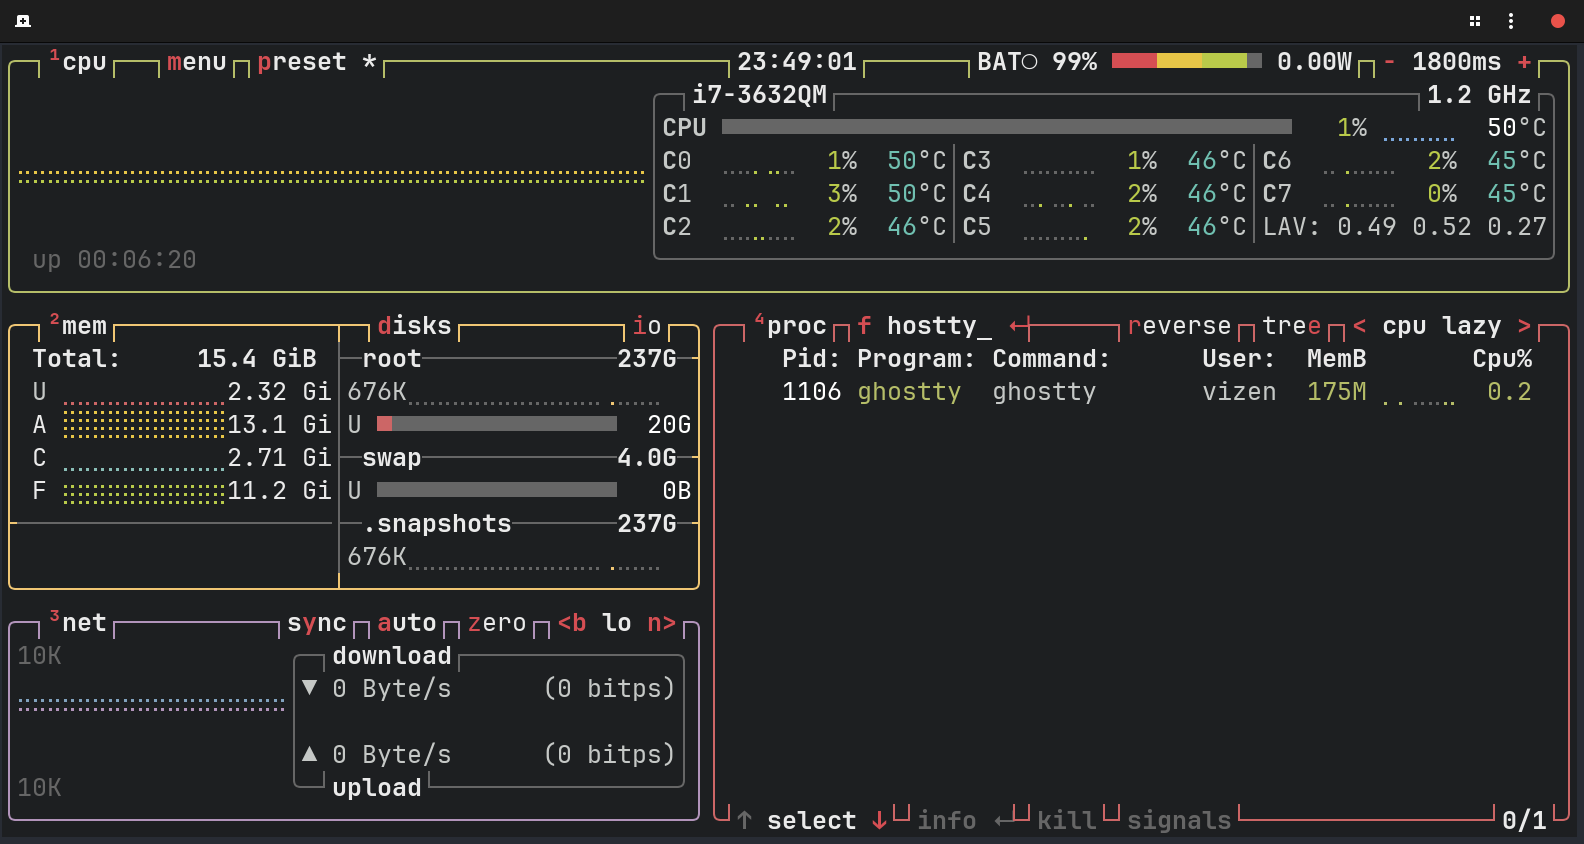
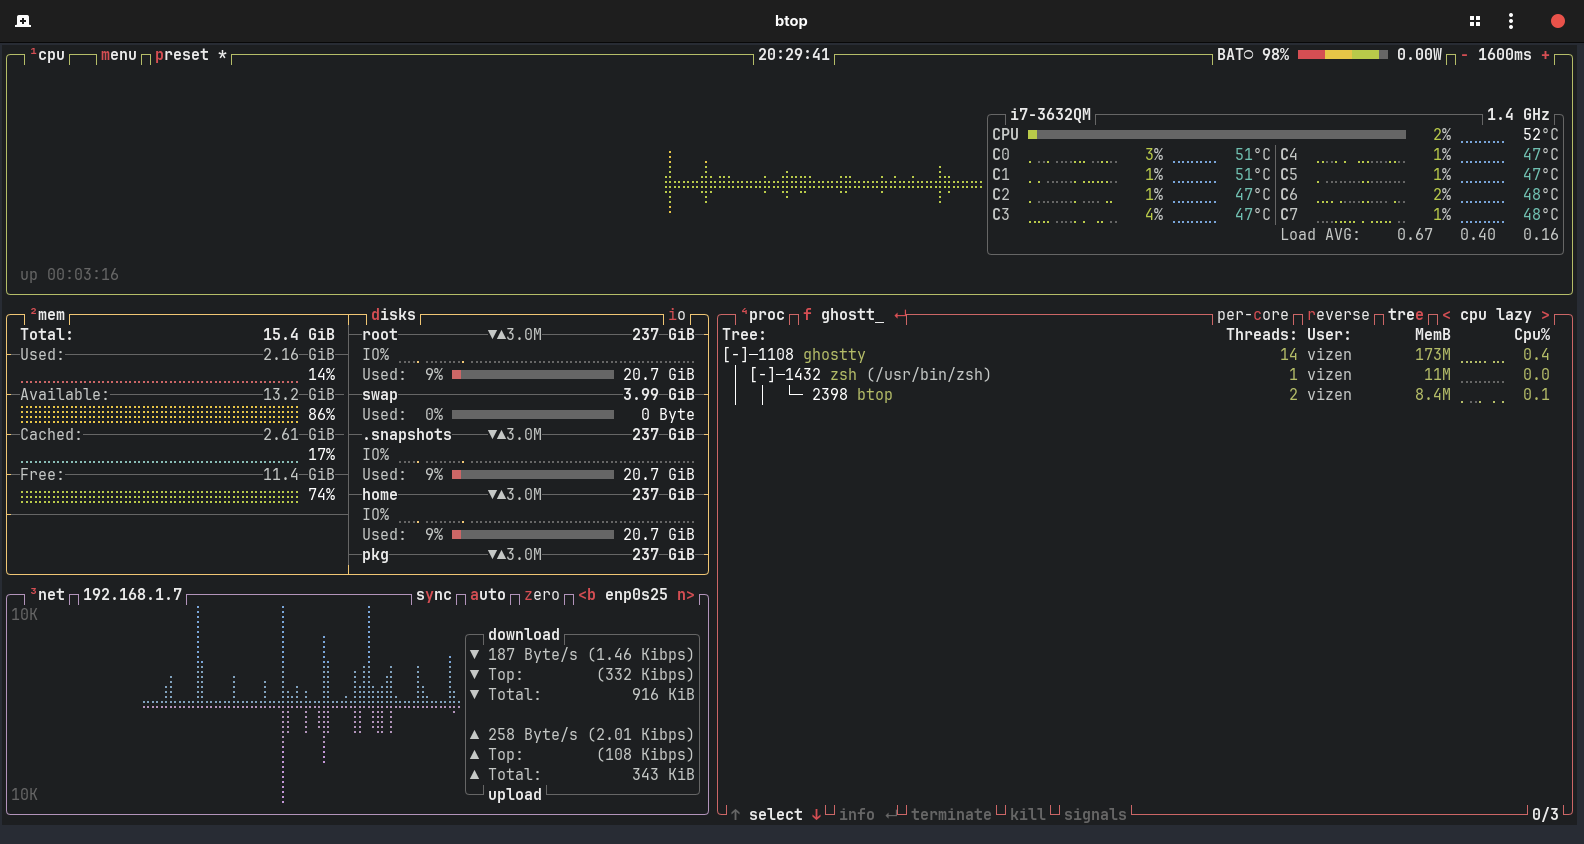
Change terminal size for memory usage test

diff --git a/README.md b/README.md
@@ -69,16 +69,17 @@ Measured in miliseconds(ms) using [zsh-prompt-benchmark](https://github.com/romk
 
 ## Memory Usage
 
-Measured in megabytes(MB) using [btop](https://github.com/aristocratos/btop).
+Measured in megabytes(MB) using [btop](https://github.com/aristocratos/btop)
+after reboot.
 
 > Lower is better
 
 | run | alacritty |     foot | ghostty | kitty | wezterm |
 |----:|----------:|---------:|--------:|------:|--------:|
-|   1 |       132 |       45 |     256 |   143 |     200 |
-|   2 |       100 |       44 |     165 |   127 |     118 |
-|   3 |       104 |       31 |     166 |   103 |     116 |
-|   4 |       119 |       37 |     164 |   111 |     127 |
-|   5 |       106 |       31 |     175 |   105 |     134 |
-| avg |       112 | **_38_** |     185 |   118 |     139 |
+|   1 |        78 |       42 |     170 |    91 |     127 |
+|   2 |        73 |       44 |     176 |    91 |     127 |
+|   3 |        78 |       43 |     173 |    89 |     134 |
+|   4 |        71 |       45 |     178 |    91 |     128 |
+|   5 |        77 |       43 |     173 |    93 |     134 |
+| avg |        75 | **_43_** |     174 |    91 |     130 |
 
